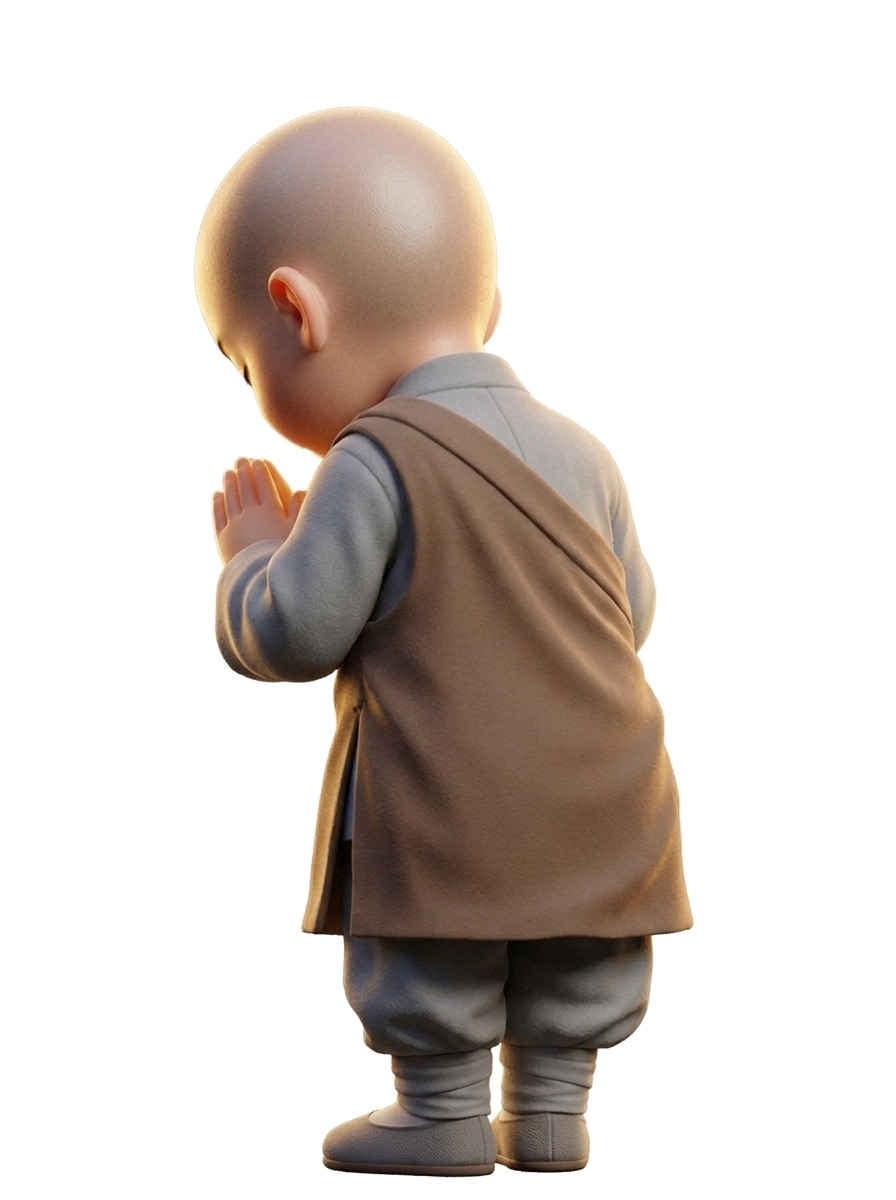
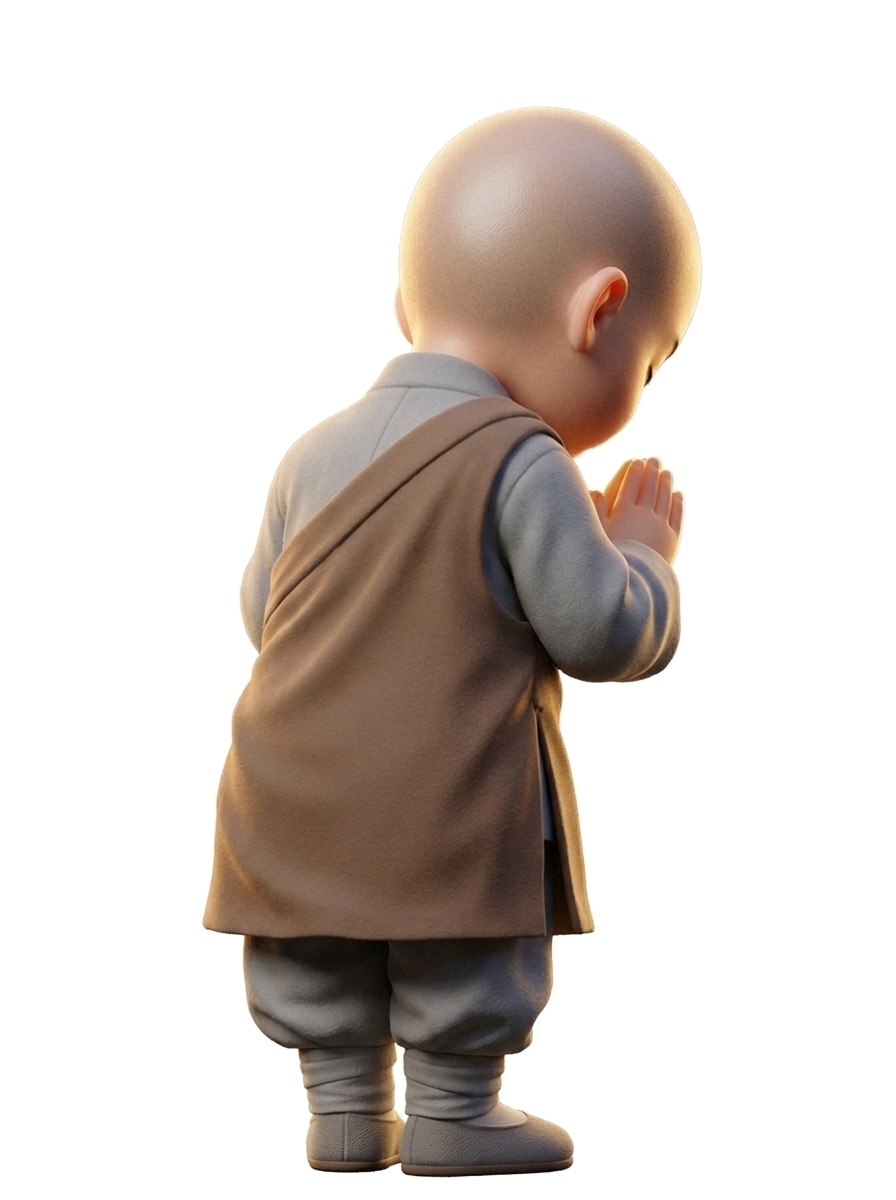
fix: unify monk posture direction to the right for both hapjang and bow

diff --git a/public/sw.js b/public/sw.js
@@ -1,4 +1,4 @@
-const CACHE_NAME = 'sowonpray-cache-v13'
+const CACHE_NAME = 'sowonpray-cache-v14'
 
 self.addEventListener('install', (event) => {
   self.skipWaiting()
